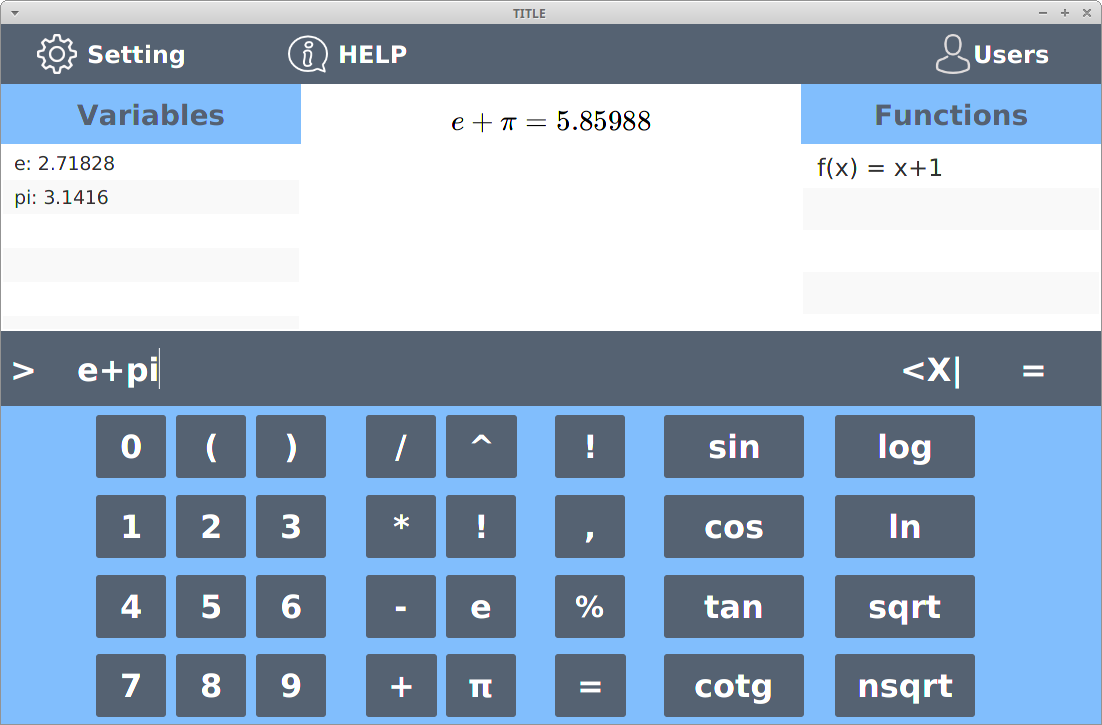
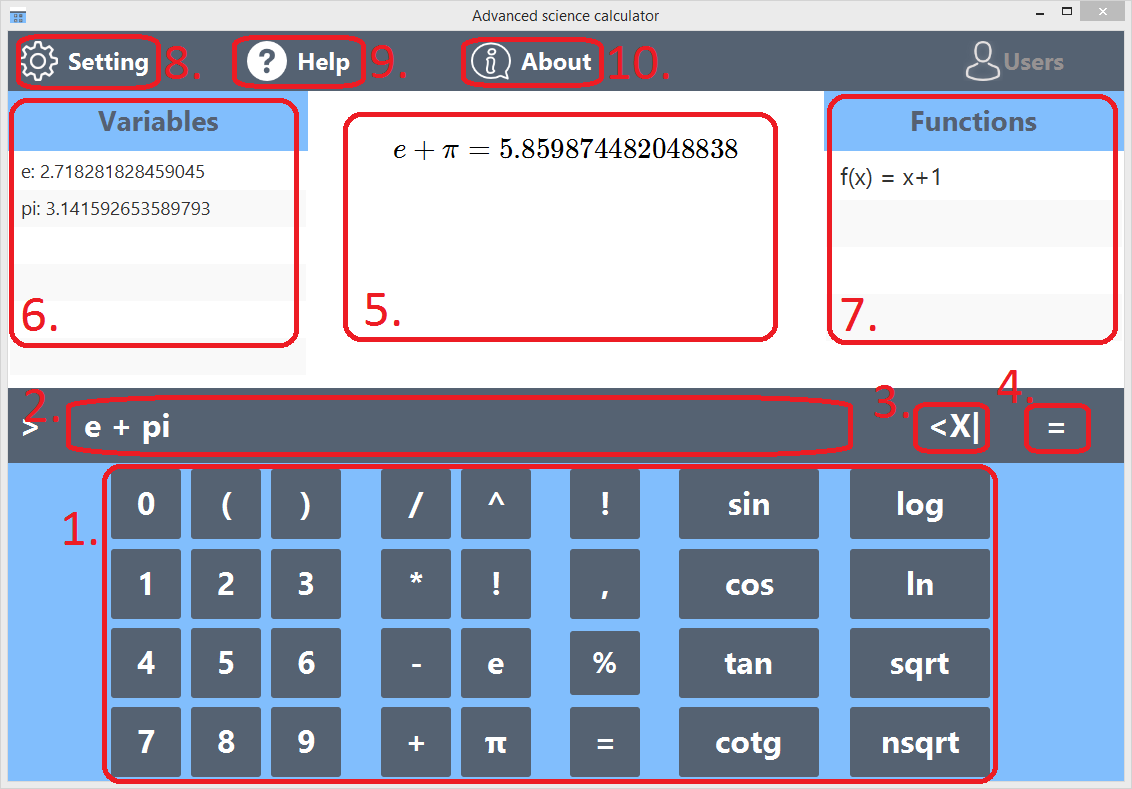
Edit gui description

Changed region(s): [[0.0, 0.0, 1.0, 1.0]]

diff --git a/src/app/html_templates/manual.html b/src/app/html_templates/manual.html
@@ -1,7 +1,7 @@
 <html lang="cs-cz">
 
     <head>
-        <meta name="author" content="Honza Havlin" />
+        <meta name="author" content="Jan Havlin" />
         <meta name="viewport" content="width=device-width, initial-scale=1" />
         <link rel="stylesheet" type="text/css" href="manual.css" />
         <meta charset="UTF-8" />
@@ -55,7 +55,9 @@
                 <li>Výstup</li>
                 <li>Seznam definovaných proměnných</li>
                 <li>Seznam definovaných funkcí</li>
-                <li>Nastavení, zdali se u proměnných zobrazí jejich název, nebo hodnota</li>
+                <li>Nastavení</li>
+				<li>Uživatelská příručka</li>
+				<li>Informace o aplikaci</li>
             </ol>
 
             <h2 id="odkaz3">Základní operace</h2>
